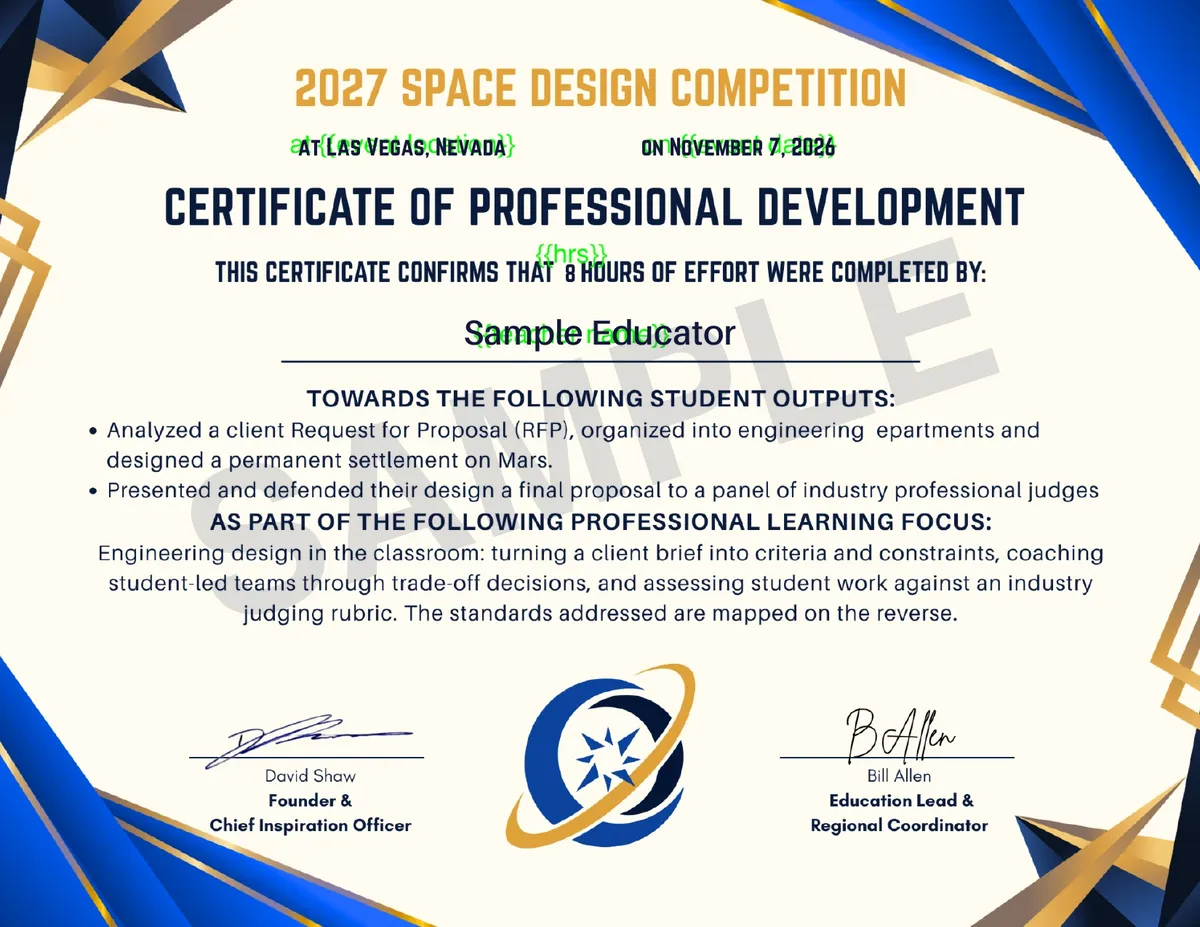
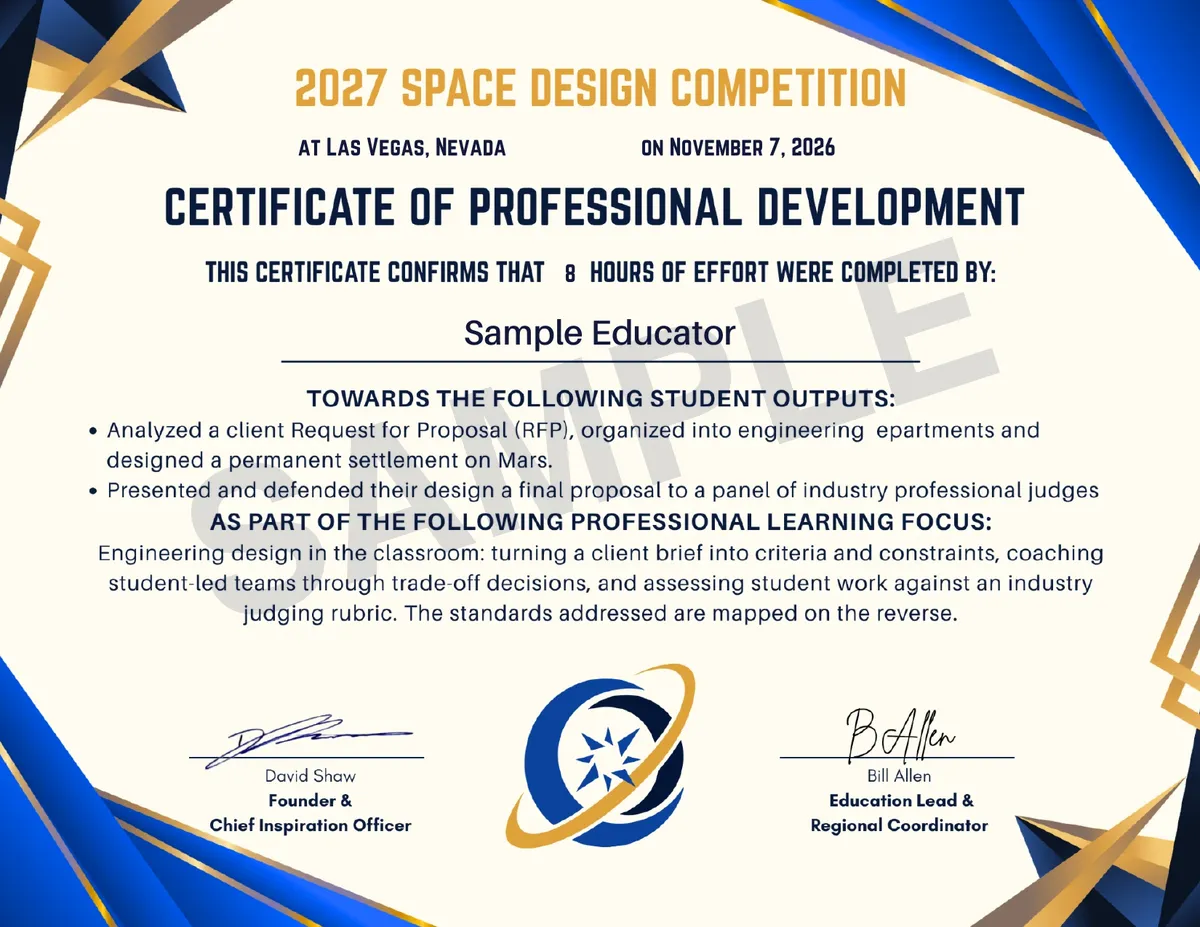
Educators: sample PD certificate from the final artwork
Re-rendered from the clean Space front and back (the dev copy still
carried the mock-up's placeholders). The sample script takes --front and
--back local files, converted to PNG for the renderer; field positions
still come from the saved layout.

diff --git a/scripts/pd-certificate-sample.ts b/scripts/pd-certificate-sample.ts
@@ -6,6 +6,10 @@
  *
  *   npx tsx scripts/pd-certificate-sample.ts                       # .env.local
  *   npx tsx scripts/pd-certificate-sample.ts --env-file .env.prod.local
+ *   npx tsx scripts/pd-certificate-sample.ts --front front.webp --back back.webp
+ *
+ * --front/--back use local artwork files (any format sharp reads) instead of
+ * the uploaded pages; the field positions still come from the saved layout.
  *
  * Writes public/images/educators/pd-certificate-sample-{front,back}.webp.
  * Needs `pdftoppm` (poppler) on the PATH. Re-run after new artwork is uploaded.
@@ -16,8 +20,11 @@ import { mkdtempSync, readFileSync, rmSync, writeFileSync } from 'node:fs'
 import { tmpdir } from 'node:os'
 import * as path from 'node:path'
 
-const envAt = process.argv.indexOf('--env-file')
-dotenv.config({ path: envAt > -1 ? process.argv[envAt + 1] : '.env.local' })
+const arg = (name: string) => {
+  const at = process.argv.indexOf(name)
+  return at > -1 ? process.argv[at + 1] : undefined
+}
+dotenv.config({ path: arg('--env-file') ?? '.env.local' })
 
 const OUT_DIR = path.join(process.cwd(), 'public/images/educators')
 const WIDTH = 1200
@@ -31,8 +38,15 @@ async function main() {
   const sharp = (await import('sharp')).default
 
   const db = supabaseServer()
-  const [artwork, layout] = await Promise.all([loadPdArtwork(db, 'space'), loadPdLayout(db, 'space')])
-  if (!artwork.front || !artwork.back) throw new Error('Upload the Space front and back artwork first.')
+  const [uploaded, layout] = await Promise.all([loadPdArtwork(db, 'space'), loadPdLayout(db, 'space')])
+  // The renderer embeds PNG or JPEG only, so a local file is converted first.
+  const local = async (file: string | undefined) =>
+    file ? { bytes: new Uint8Array(await sharp(readFileSync(file)).png().toBuffer()), mime: 'image/png' } : null
+  const artwork = {
+    front: (await local(arg('--front'))) ?? uploaded.front,
+    back: (await local(arg('--back'))) ?? uploaded.back,
+  }
+  if (!artwork.front || !artwork.back) throw new Error('Upload the Space front and back artwork first, or pass --front and --back.')
 
   const pdf = await renderPdCertificatePdf(
     {
